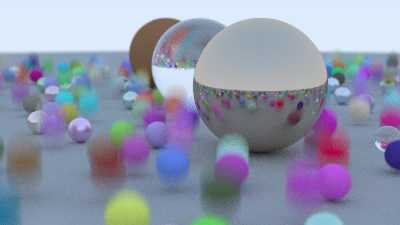
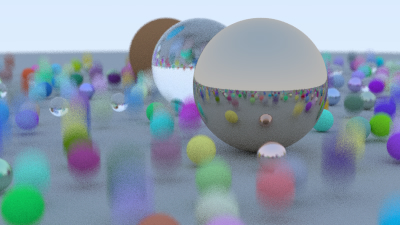
AABBox finished

diff --git a/raytracer/src/main.rs b/raytracer/src/main.rs
@@ -9,7 +9,7 @@ mod bvh;
 
 use camera::Camera;
 use console::style;
-use hittable::{/* HitRecord,*/ Hittable, HittableList};
+use hittable::{Hittable, HittableList};
 use image::{ImageBuffer, RgbImage};
 use indicatif::{MultiProgress, ProgressBar, ProgressStyle};
 use material::{Dielectric, Lambertian, Metal};
@@ -23,6 +23,8 @@ use std::{
     thread,
 };
 use vec::{Color, Point3, Vec3};
+
+use crate::bvh::BvhNode;
 
 fn main() {
     print!("{}[2J", 27 as char); // Clear screen
@@ -69,7 +71,8 @@ fn main() {
     let mut thread_pool = Vec::<_>::new();
 
     // World
-    let main_world = random_scene();
+    // let main_world = random_scene();
+    let main_world = BvhNode::new_list(&random_scene(), 0., 1.);
 
     for thread_id in 0..THREAD_NUMBER {
         // line
@@ -172,7 +175,7 @@ fn main() {
     exit(0);
 }
 
-fn ray_color(r: Ray, world: &HittableList, depth: i32) -> Color {
+fn ray_color(r: Ray, world: &BvhNode, depth: i32) -> Color {
     if depth <= 0 {
         return Color::new(0., 0., 0.);
     }

diff --git a/raytracer/src/bvh.rs b/raytracer/src/bvh.rs
@@ -6,6 +6,7 @@ use rand::Rng;
 use crate::hittable::{Hittable, HittableList};
 use super::aabb::AABB;
 
+#[derive(Clone)]
 pub struct BvhNode {
     aabbox: AABB,
     left: Option<Arc<dyn Hittable>>,
@@ -36,6 +37,7 @@ impl BvhNode {
     pub fn new_list(list: &HittableList, time0: f64, time1: f64) -> Self {
         BvhNode::new_vec(list.objects.clone(), time0, time1)
     }
+#[allow(unused_assignments)]
     pub fn new_vec(mut objects: Vec<Arc<dyn Hittable>>, time0: f64, time1: f64) -> Self {
         let axis: usize = rand::thread_rng().gen_range(0..3);
 
@@ -106,7 +108,7 @@ impl Hittable for BvhNode {
             }
         }
     }
-    fn bounding_box(&self, time0: f64, time1: f64) -> Option<AABB> {
+    fn bounding_box(&self, _time0: f64, _time1: f64) -> Option<AABB> {
         Some(self.aabbox)
     }
 }

diff --git a/raytracer/src/sphere.rs b/raytracer/src/sphere.rs
@@ -57,7 +57,7 @@ impl Hittable for Sphere {
         Some(rec)
     }
 
-    fn bounding_box(&self, time0: f64, time1: f64) -> Option<AABB> {
+    fn bounding_box(&self, _time0: f64, _time1: f64) -> Option<AABB> {
         Some(AABB::new(
             self.center - Vec3::new(self.radius, self.radius, self.radius),
             self.center + Vec3::new(self.radius, self.radius, self.radius),

diff --git a/README.md b/README.md
@@ -4,6 +4,9 @@
 ### Book1
 ![image21.jpg](https://s2.loli.net/2022/07/11/LAwbMrnKt8vNieS.jpg)
 
+### Book2
+![output.jpg](https://raw.githubusercontent.com/Jerx2y/Raytracer-Assignment-2022/master/output/output.jpg)
+
 ## 课程介绍
 
 - 本项目为 2021-2022 学年暑期小学期课程
